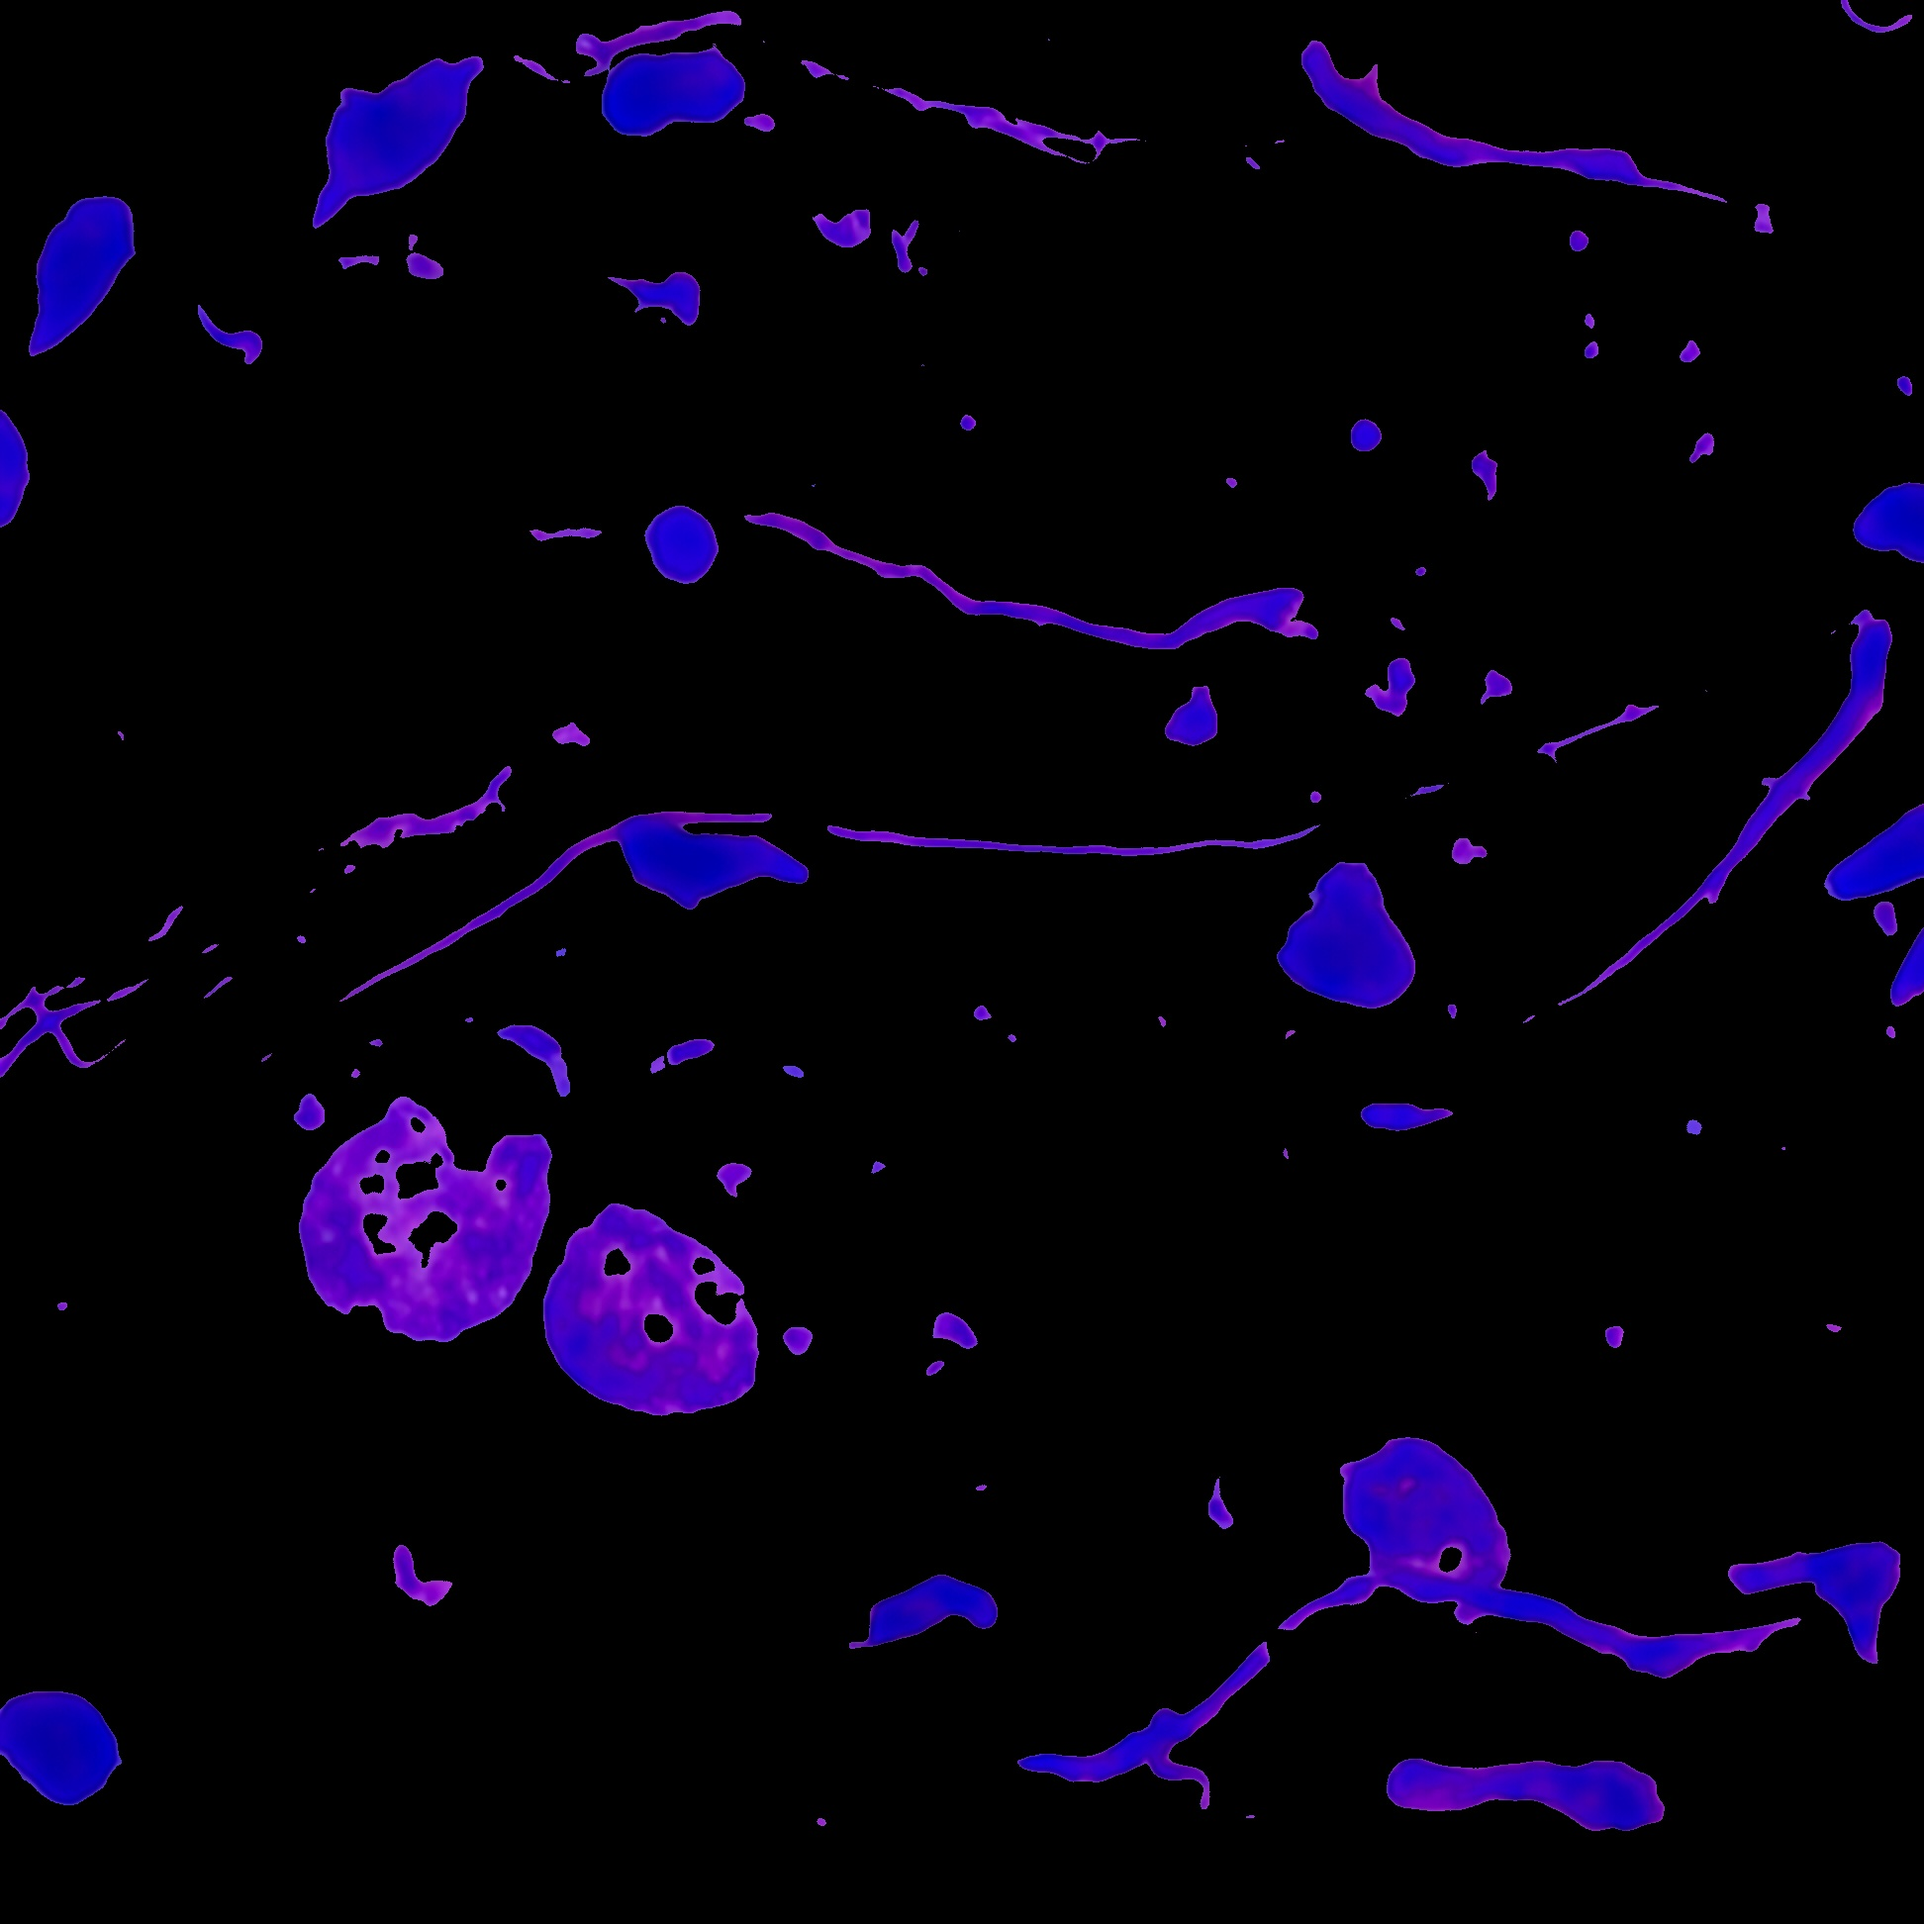
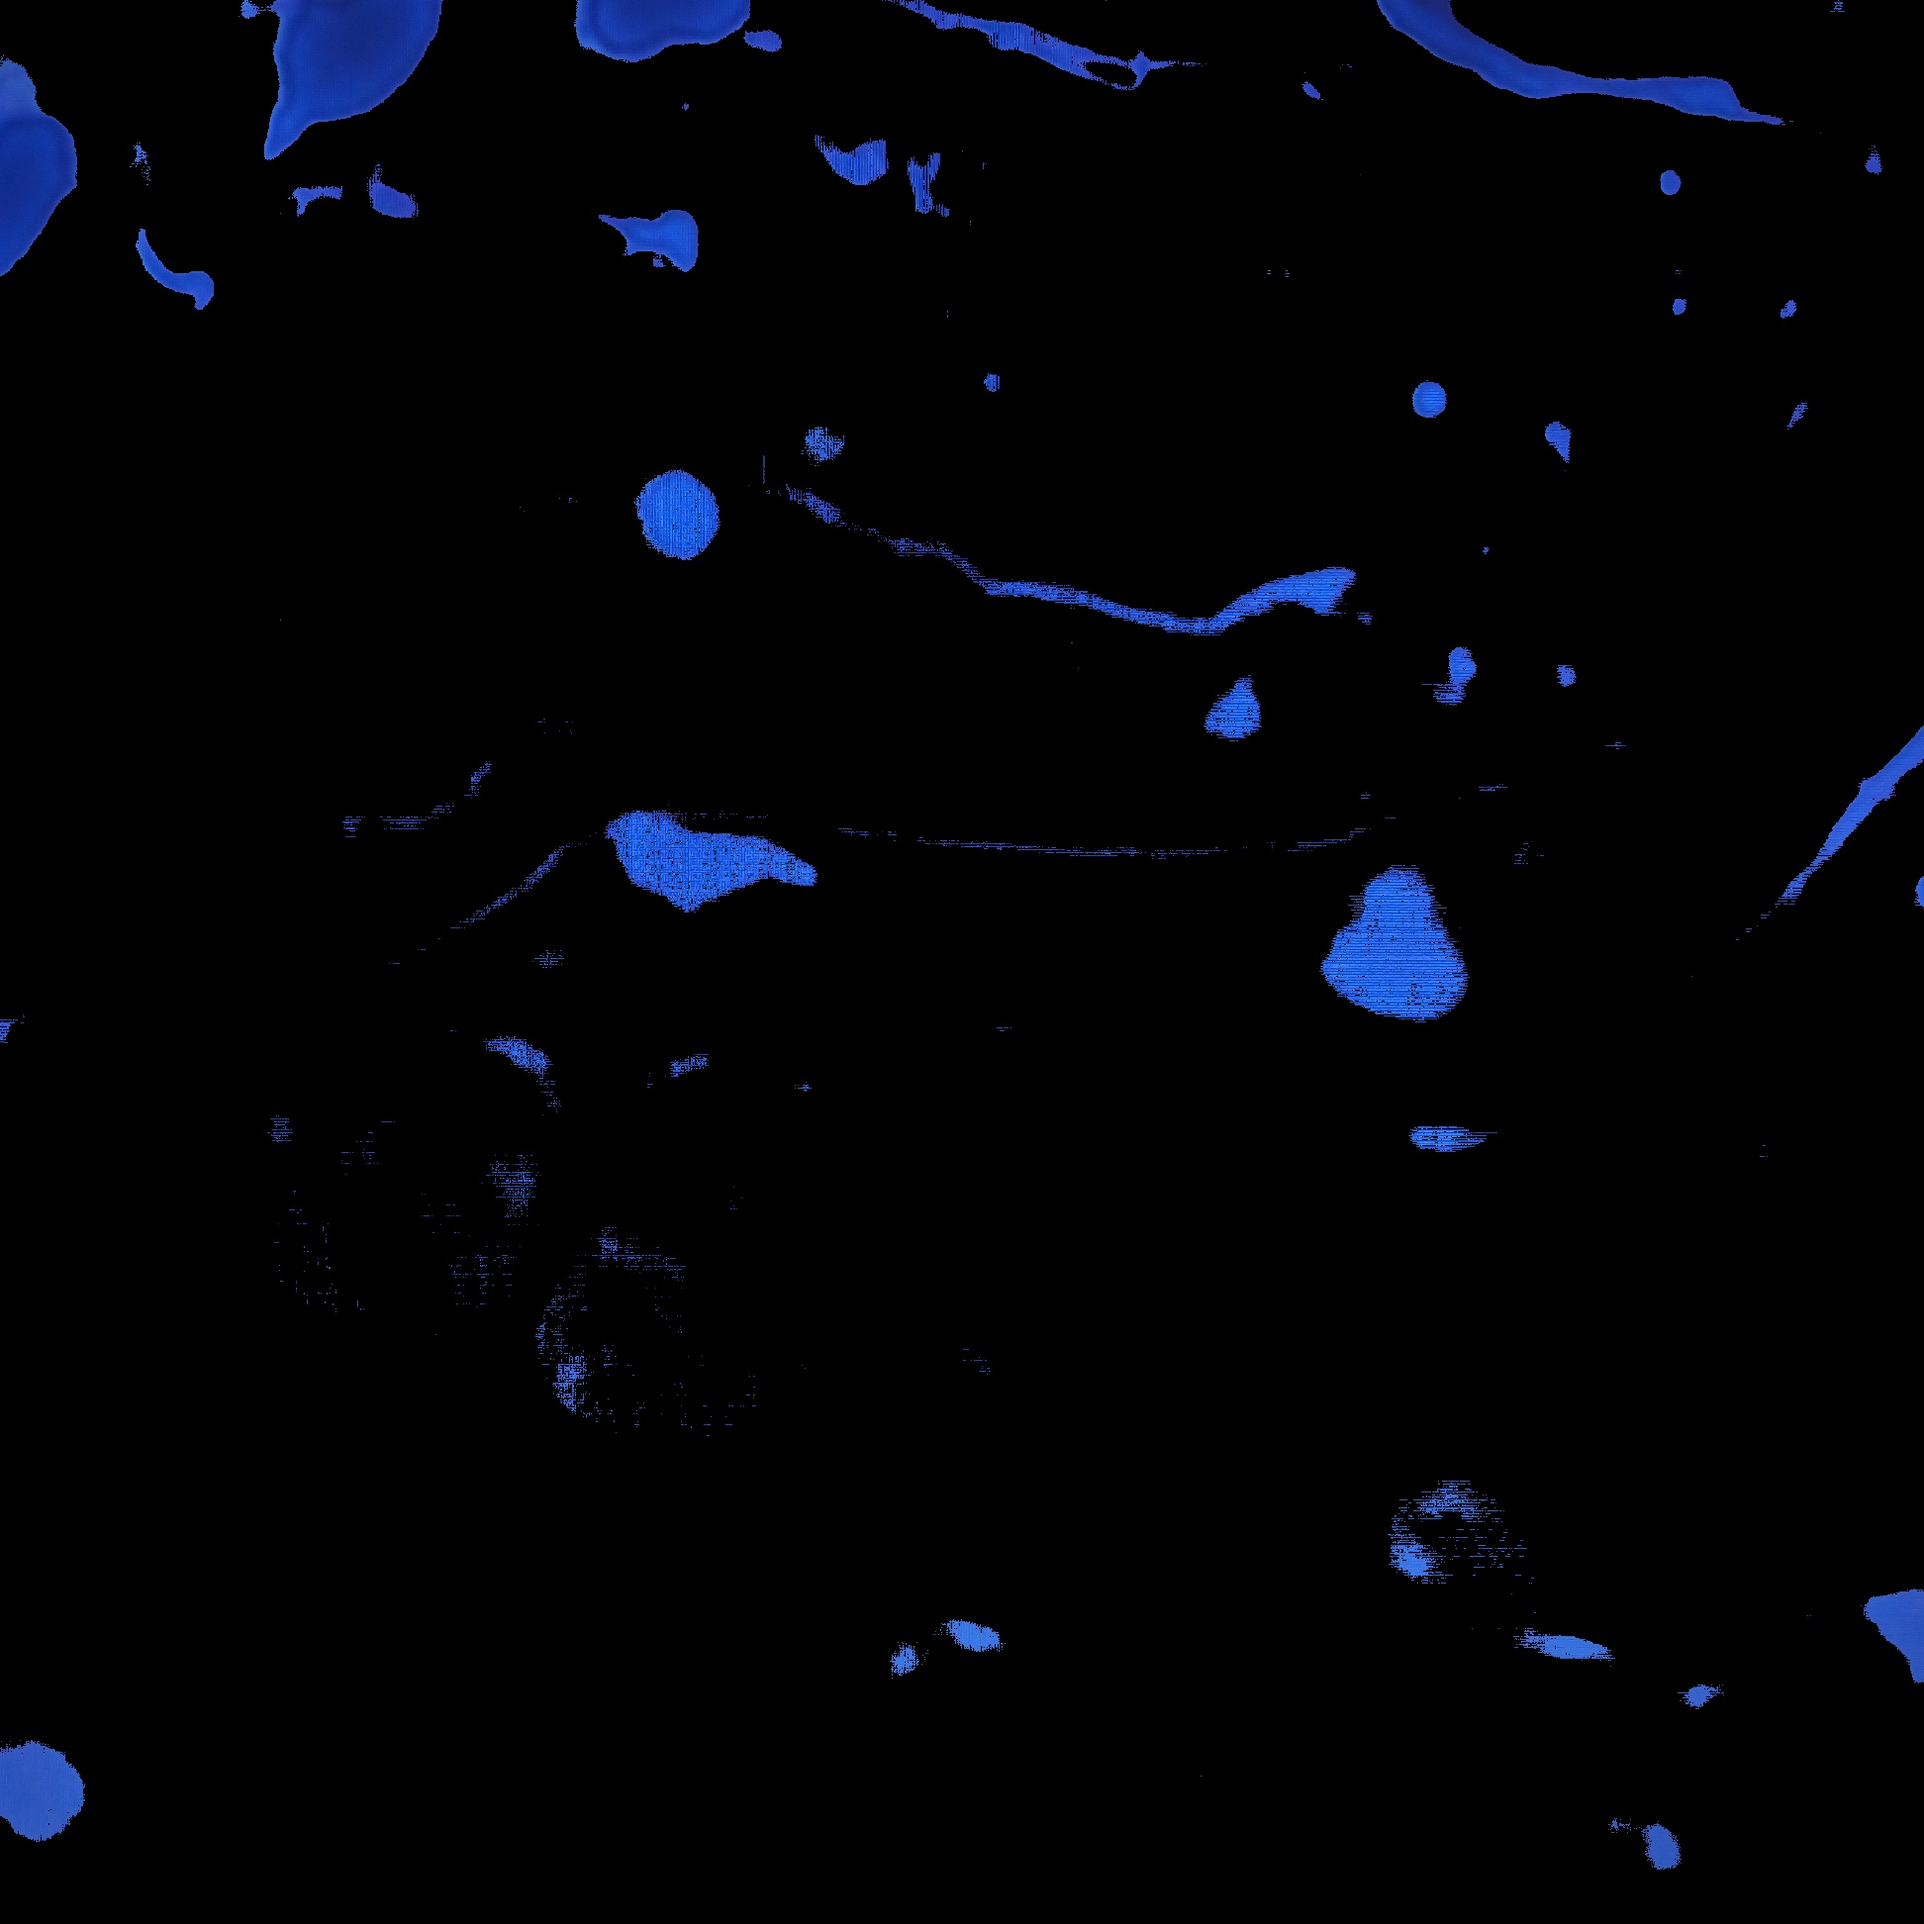
Cloud Version 2 added Cloud Version 1 fixed

diff --git a/MacrophagesIdentification.py b/MacrophagesIdentification.py
@@ -40,19 +40,21 @@ def coreIdentification(img):
     mask2 = np.zeros((1944,1944 , 1), dtype = np.uint8)
     cores = cv2.HoughCircles(mask, cv2.HOUGH_GRADIENT, 1, 160, param1=50, param2=6, minRadius=110, maxRadius=120)
     circlesTest = img.copy()
-    cores = np.uint16(np.around(cores))
-    for (x,y,r ) in cores[0,:]:
-        cv2.circle(circlesTest, (x,y), r,(0,0,255),3)
-        cv2.circle(circlesTest, (x,y), 2,(0,0,255),3)
+    if cores is not None:
+        cores = np.uint16(np.around(cores))
+        for (x,y,r ) in cores[0,:]:
+            cv2.circle(circlesTest, (x,y), r,(0,0,255),3)
+            cv2.circle(circlesTest, (x,y), 2,(0,0,255),3)
 
     cv2.imwrite('CircleTest.jpg',circlesTest)
     #Getting rid of the not rounded contours
     contours, hierarchy1 = cv2.findContours(mask, cv2.RETR_EXTERNAL, cv2.CHAIN_APPROX_NONE)
-    for (x,y,r ) in cores[0,:]:
-        for i in range(len(contours)):
-            cnt = contours[i]
-            if 1 ==  cv2.pointPolygonTest(cnt,(x,y),False):
-                cv2.drawContours(mask2,contours,i,color=(255,255,255),thickness=cv2.FILLED)
+    if cores is not None:
+        for (x,y,r ) in cores[0,:]:
+            for i in range(len(contours)):
+                cnt = contours[i]
+                if 1 ==  cv2.pointPolygonTest(cnt,(x,y),False):
+                    cv2.drawContours(mask2,contours,i,color=(255,255,255),thickness=cv2.FILLED)
     
     #Update found cores contours
     contours, hierarchy1 = cv2.findContours(mask2, cv2.RETR_EXTERNAL, cv2.CHAIN_APPROX_NONE)
@@ -243,7 +245,7 @@ def SorensenDiceCoeff (labeled, mask):
 #Reading the Image from the local storage
 start_time = time.time()
 #img = cv2.imread('L3_M2_C13.png',1)
-img = cv2.imread('L19_M1_C2.png',1)
+img = cv2.imread('F1.png',1)
 
 #Preprocess Image - Core Identification (Part 1)
 coreMask, coreImgColor , cores = coreIdentification(img)
